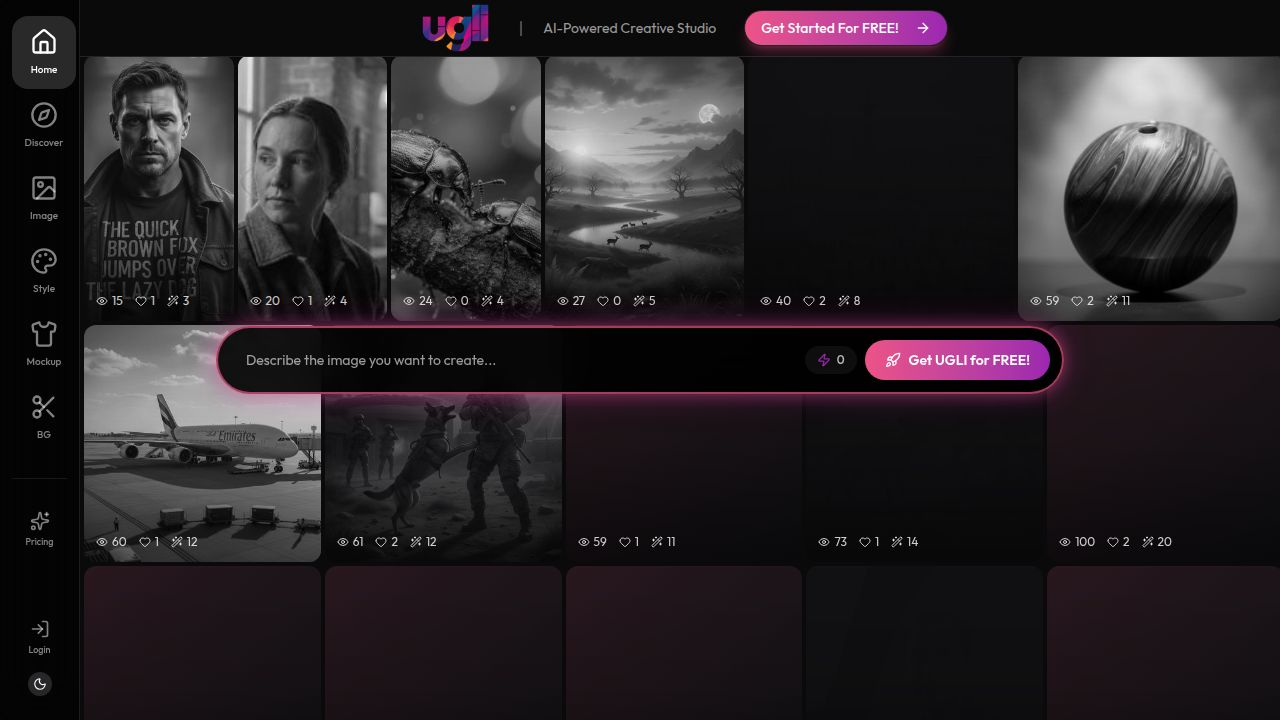
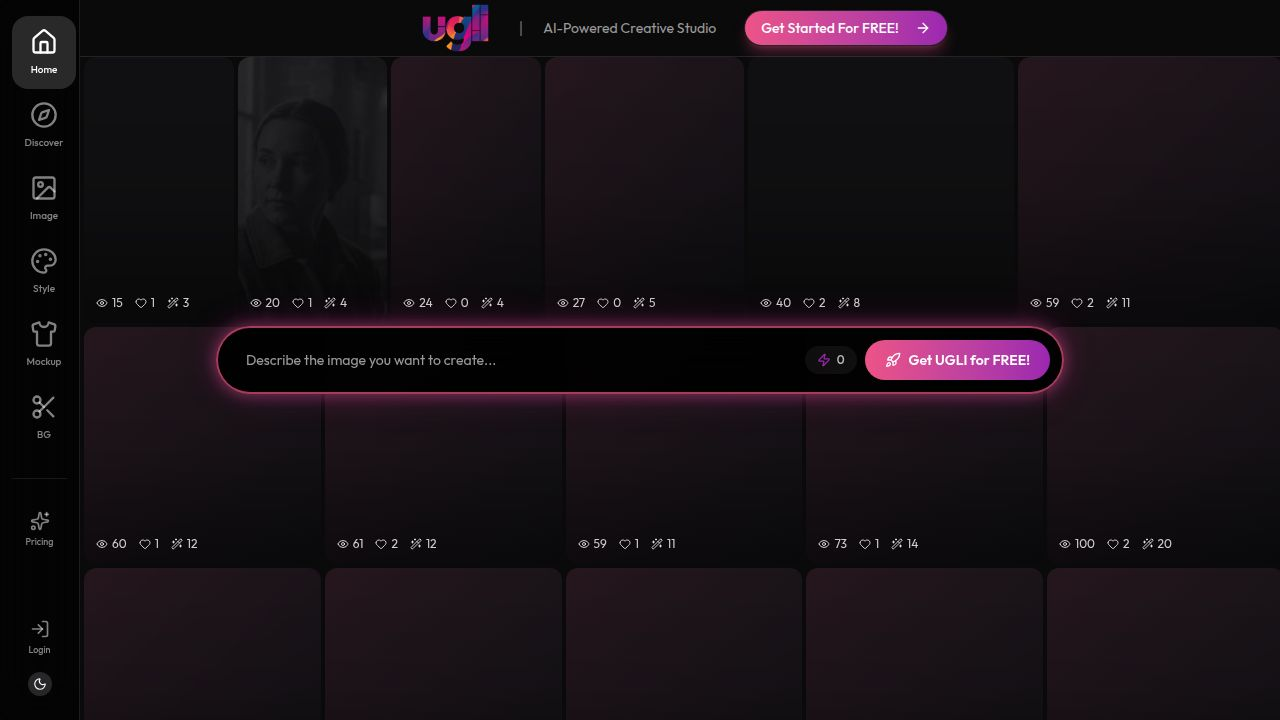
Remove unused leaderboard features and adjust image generator layout
Removes the `LeaderboardEntry` interface, `fetchLeaderboard` function, `getRankIcon` function, and associated query code. Adjusts the main content layout in `image-generator.tsx` to use full width, matching the layout of the "My Creations" section.

Replit-Commit-Author: Agent
Replit-Commit-Session-Id: 26597823-46ad-4689-b72f-6ac7cb0ce539
Replit-Commit-Checkpoint-Type: intermediate_checkpoint
Replit-Commit-Event-Id: fa803bbe-5613-415f-b190-19cf1664e47a
Replit-Commit-Screenshot-Url: https://storage.googleapis.com/screenshot-production-us-central1/baa6e7c9-800f-4db8-977d-5f62b4ff348e/26597823-46ad-4689-b72f-6ac7cb0ce539/CAeGFYZ
Replit-Helium-Checkpoint-Created: true

diff --git a/client/src/pages/image-generator.tsx b/client/src/pages/image-generator.tsx
@@ -63,11 +63,6 @@ import {
   BookmarkCheck,
   Heart,
   Coins,
-  Trophy,
-  Crown,
-  Medal,
-  Award,
-  Eye,
   FolderInput,
   Shirt,
   Scissors,
@@ -120,7 +115,6 @@ import { useLocation } from "wouter";
 import { transferImageToTool } from "@/lib/image-transfer";
 import { TutorialOverlay, useTutorial } from "@/components/tutorial-overlay";
 import { useCredits } from "@/hooks/use-credits";
-import { DailyInspirationFeed, PersonalizedPrompts } from "@/components/daily-inspiration";
 
 // Import generated images for the gallery
 import cyberpunkCity from "@assets/generated_images/futuristic_cyberpunk_city_street_at_night_with_neon_lights_and_rain.png";
@@ -143,36 +137,6 @@ type GeneratedImage = {
   alreadySaved?: boolean;  // For images already saved by backend (premium mode)
   isPublic?: boolean;  // Whether image is visible in public gallery
 };
-
-interface LeaderboardEntry {
-  userId: string;
-  username: string | null;
-  displayName: string | null;
-  profileImageUrl: string | null;
-  imageCount: number;
-  likeCount: number;
-  viewCount: number;
-  rank: number;
-}
-
-async function fetchLeaderboard(): Promise<{ leaderboard: LeaderboardEntry[] }> {
-  const response = await fetch(`/api/leaderboard?period=all-time&limit=5`);
-  if (!response.ok) throw new Error("Failed to fetch leaderboard");
-  return response.json();
-}
-
-function getRankIcon(rank: number) {
-  switch (rank) {
-    case 1:
-      return <Crown className="h-4 w-4 text-yellow-500" />;
-    case 2:
-      return <Medal className="h-4 w-4 text-gray-400" />;
-    case 3:
-      return <Award className="h-4 w-4 text-purple-600" />;
-    default:
-      return <span className="text-muted-foreground font-mono text-xs">#{rank}</span>;
-  }
-}
 
 type Agent = {
   id: number;
@@ -291,14 +255,6 @@ export default function ImageGenerator() {
   } = useTutorial();
 
   const { credits, invalidate: invalidateCredits } = useCredits();
-
-  const { data: leaderboardData, isLoading: isLoadingLeaderboard, error: leaderboardError } = useQuery({
-    queryKey: ['leaderboard', 'all-time'],
-    queryFn: fetchLeaderboard,
-    staleTime: 1000 * 30,
-    refetchInterval: 1000 * 30,
-  });
-  const topCreators = leaderboardData?.leaderboard || [];
 
   useEffect(() => {
     if (tutorialCompleted) return;
@@ -1914,9 +1870,9 @@ export default function ImageGenerator() {
         </div>
 
         {/* CREATIVE WORKSPACE */}
-        <div className="flex-1 flex flex-col lg:flex-row overflow-hidden">
-          {/* Main Content - 3/4 width on lg+ */}
-          <div className="flex-1 lg:basis-3/4 overflow-y-auto p-6 md:p-8 pb-40 md:pb-10 [scrollbar-width:none] [-ms-overflow-style:none] [&::-webkit-scrollbar]:hidden">
+        <div className="flex-1 flex flex-col overflow-hidden">
+          {/* Main Content - Full width (matches My Creations layout) */}
+          <div className="flex-1 overflow-y-auto p-6 md:p-8 pb-40 md:pb-10 [scrollbar-width:none] [-ms-overflow-style:none] [&::-webkit-scrollbar]:hidden">
             <div className="space-y-8">
             
             {/* Generation Status - Shows during generation with progressive image cards */}
@@ -2182,87 +2138,6 @@ export default function ImageGenerator() {
                 </p>
               </div>
             )}
-            </div>
-          </div>
-          
-          {/* Inspiration Section - 1/4 width on lg+, hidden on mobile */}
-          <div className="hidden lg:flex lg:basis-1/4 border-l border-border overflow-y-auto bg-background">
-            <div className="w-full p-4 space-y-6">
-              <PersonalizedPrompts onTryPrompt={(prompt: string) => setPrompt(prompt)} />
-              <DailyInspirationFeed onTryPrompt={(prompt) => setPrompt(prompt)} />
-              
-              {/* Top Creators Leaderboard */}
-              <div className="space-y-4">
-                <div className="flex items-center gap-2">
-                  <Trophy className="h-4 w-4 text-[#9C27B0]" />
-                  <h3 className="text-sm font-semibold text-foreground">Top Creators</h3>
-                </div>
-                <div className="bg-muted/30 border border-border rounded-xl p-4">
-                  {isLoadingLeaderboard ? (
-                    <div className="space-y-3">
-                      {[...Array(5)].map((_, i) => (
-                        <div key={i} className="flex items-center gap-3 p-2 animate-pulse">
-                          <div className="w-6 h-4 bg-muted rounded" />
-                          <div className="h-8 w-8 bg-muted rounded-full" />
-                          <div className="flex-1">
-                            <div className="h-4 w-24 bg-muted rounded" />
-                          </div>
-                          <div className="text-right">
-                            <div className="h-4 w-8 bg-muted rounded" />
-                          </div>
-                        </div>
-                      ))}
-                    </div>
-                  ) : leaderboardError ? (
-                    <div className="text-center py-4">
-                      <p className="text-sm text-muted-foreground">Could not load leaderboard</p>
-                    </div>
-                  ) : topCreators.length === 0 ? (
-                    <div className="text-center py-4">
-                      <p className="text-sm text-muted-foreground">Be the first to create!</p>
-                    </div>
-                  ) : (
-                    <div className="space-y-3">
-                      {topCreators.map((creator) => (
-                        <div
-                          key={creator.userId}
-                          className="flex items-center gap-3 p-2 rounded-lg hover:bg-muted/50 transition-colors"
-                          data-testid={`leaderboard-entry-${creator.rank}`}
-                        >
-                          <div className="w-6 flex justify-center shrink-0">
-                            {getRankIcon(creator.rank)}
-                          </div>
-                          <Avatar className="h-8 w-8 shrink-0">
-                            <AvatarImage src={creator.profileImageUrl || undefined} />
-                            <AvatarFallback className="text-xs">
-                              {(creator.displayName || creator.username || "U").slice(0, 2).toUpperCase()}
-                            </AvatarFallback>
-                          </Avatar>
-                          <div className="flex-1 min-w-0">
-                            <p className="text-sm font-medium truncate">
-                              {creator.displayName || creator.username || "Anonymous"}
-                            </p>
-                          </div>
-                          <div className="flex items-center gap-3 shrink-0">
-                            <div className="flex items-center gap-1 text-muted-foreground">
-                              <ImageIcon className="h-3 w-3" />
-                              <span className="text-xs font-medium">{creator.imageCount}</span>
-                            </div>
-                            <div className="flex items-center gap-1 text-muted-foreground">
-                              <Heart className="h-3 w-3" />
-                              <span className="text-xs font-medium">{creator.likeCount}</span>
-                            </div>
-                            <div className="flex items-center gap-1 text-muted-foreground">
-                              <Eye className="h-3 w-3" />
-                              <span className="text-xs font-medium">{creator.viewCount}</span>
-                            </div>
-                          </div>
-                        </div>
-                      ))}
-                    </div>
-                  )}
-                </div>
-              </div>
             </div>
           </div>
         </div>
